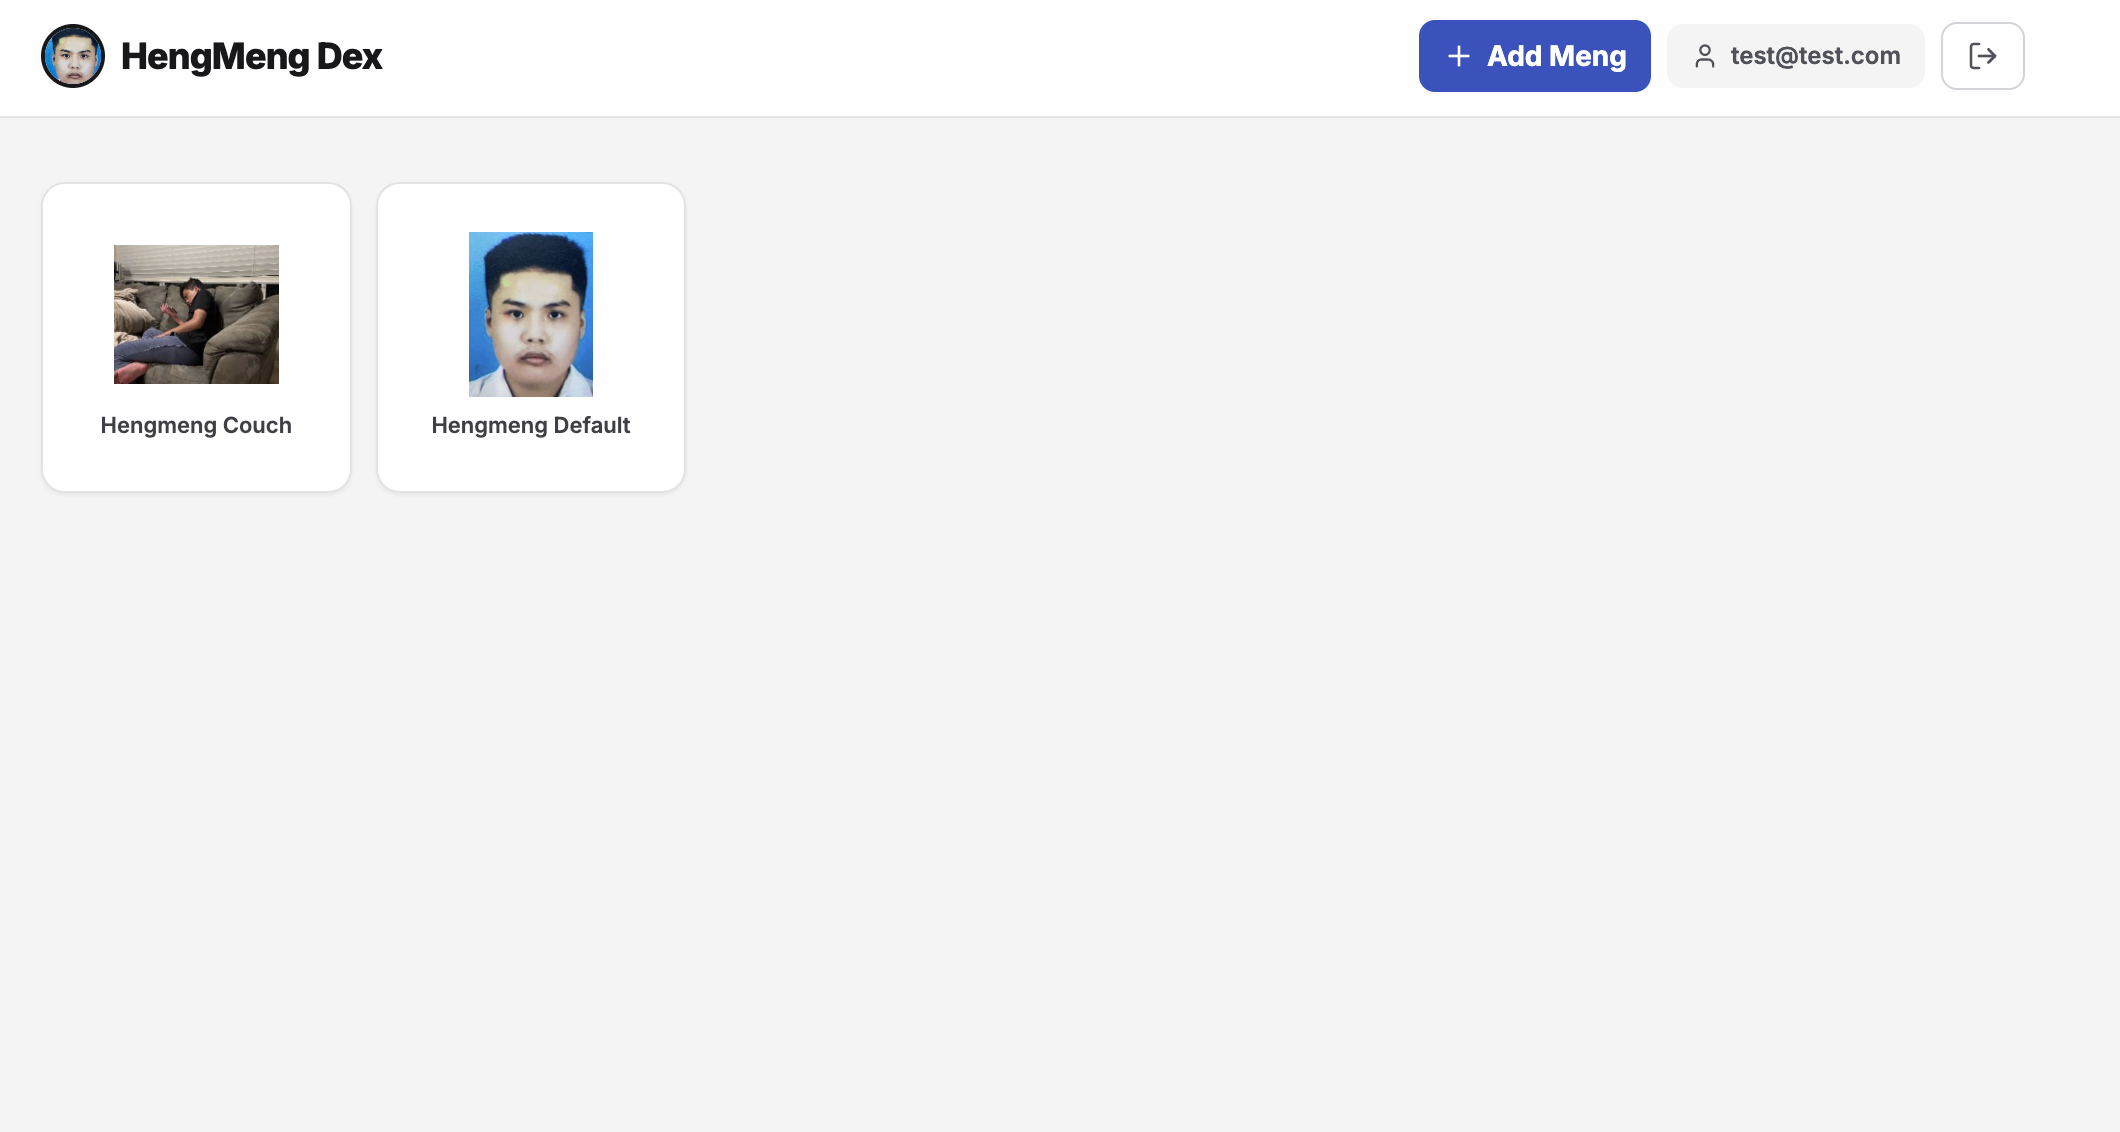
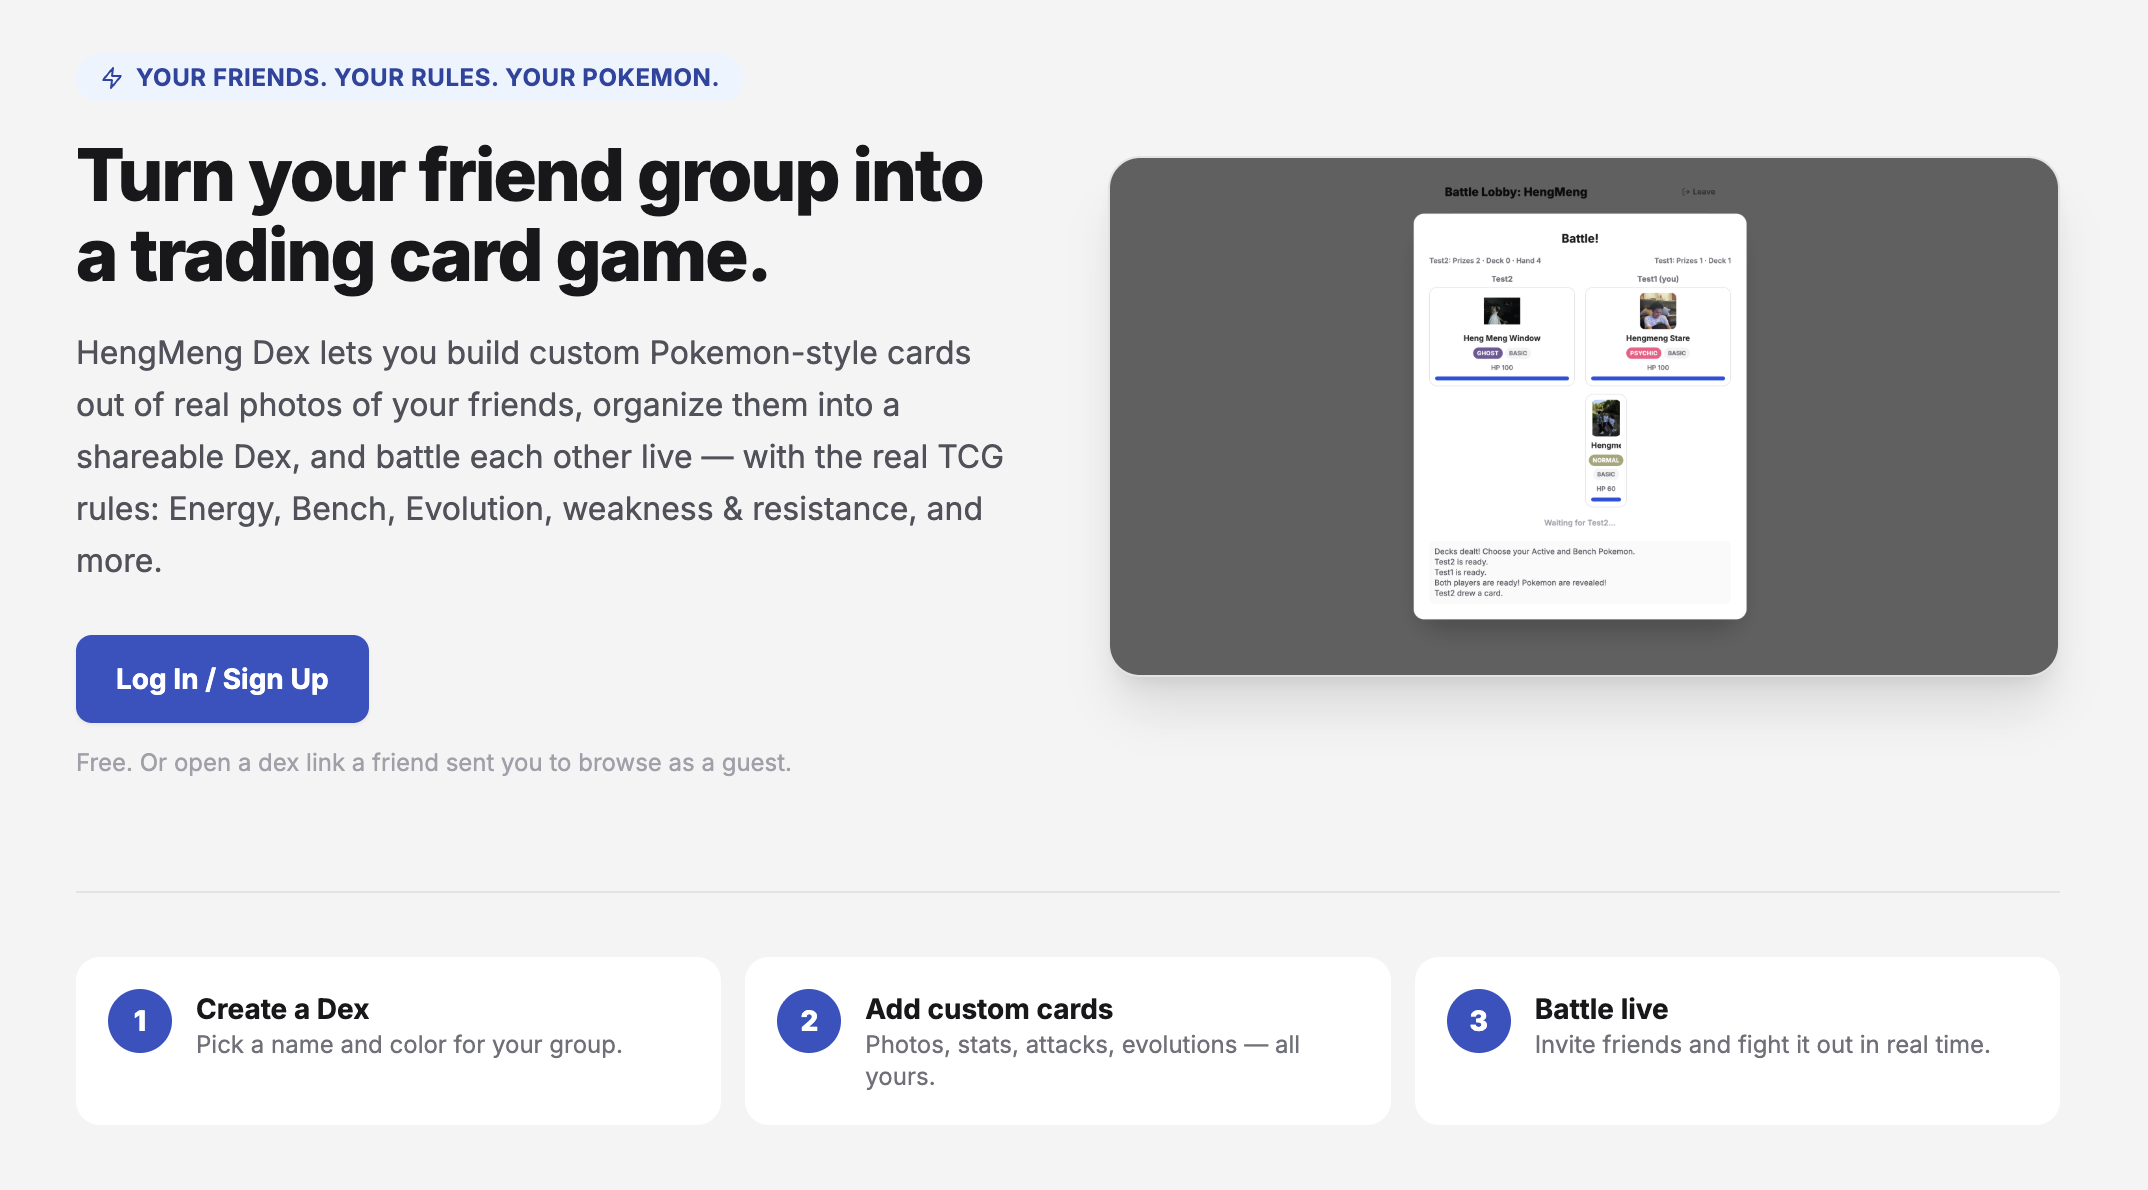
Update HengMeng Dex entry to reflect the Pokemon TCG rebuild
Swaps the stale "browse a grid of entries" description and screenshot
for one that reflects the actual current scope: a from-scratch TCG
rules engine (Bench, Energy, Evolution, weakness/resistance, all 5
Special Conditions), real-time WebRTC battles with genuine
hidden-information redaction, and the no-code ability rule builder.

diff --git a/dev/index.html b/dev/index.html
@@ -521,8 +521,8 @@
           <button class="project-card" onclick="openProjectModal('hengmengdex')">
             <img src="HENGMENGDEX.png" alt="HengMeng Dex" />
             <div class="project-card-body">
-              <div class="project-card-title">HengMeng Dex — Pokedex-Style App</div>
-              <div class="project-card-stack">React · Firebase</div>
+              <div class="project-card-title">HengMeng Dex — Custom Pokémon TCG</div>
+              <div class="project-card-stack">React · Firebase · WebRTC</div>
             </div>
           </button>
         </div>
@@ -1028,13 +1028,14 @@
         ],
       },
       hengmengdex: {
-        title: 'HengMeng Dex — Pokedex-Style App',
-        meta: 'React · Firebase Auth · Firestore &nbsp;·&nbsp; <a href="https://hengmengdex.vercel.app/" target="_blank" rel="noopener">hengmengdex.vercel.app</a>',
+        title: 'HengMeng Dex — Custom Pokémon Trading Card Game',
+        meta: 'React · Firebase Auth · Firestore · PeerJS/WebRTC &nbsp;·&nbsp; <a href="https://hengmengdex.vercel.app/" target="_blank" rel="noopener">hengmengdex.vercel.app</a>',
         img: 'HENGMENGDEX.png',
         bullets: [
-          'Built a Pokedex-style browsing app with a guest-viewable grid of entries, each with an image, description, and HP/Attack stats, backed by Firestore in real time.',
-          'Implemented email/password auth with a client-side image resize-to-Base64 pipeline (stored directly on the Firestore doc) to avoid requiring Firebase\'s paid Storage tier.',
-          'Added ownership-based permissions: signed-in users can add, edit, and delete their own entries, while a Firestore-backed admin role can manage any entry.',
+          'Built a multi-tenant platform where users create shareable "Dexes" of fully custom Pokémon-style cards (photo, HP, type, attacks, evolution stage, weakness/resistance) and invite friends to contribute and battle.',
+          'Implemented a from-scratch rules engine matching the official Pokémon TCG: automatic deck/hand/Prize-card dealing, Bench and Energy attachment, Evolution, weakness/resistance damage math, and all 5 Special Conditions resolved via a Pokémon Checkup step each turn.',
+          'Real-time 1v1 battles over WebRTC (PeerJS) with a host-authoritative state machine and per-connection state redaction, so each player\'s hand, deck, and Prize cards stay genuinely hidden from their opponent — not just hidden in the UI.',
+          'Firebase Auth + Firestore backend with ownership/admin-gated CRUD, client-side image compression to Base64 to avoid Firebase\'s paid Storage tier, and a hand-authored no-code rule builder for custom card abilities.',
         ],
       },
       todolist: {
